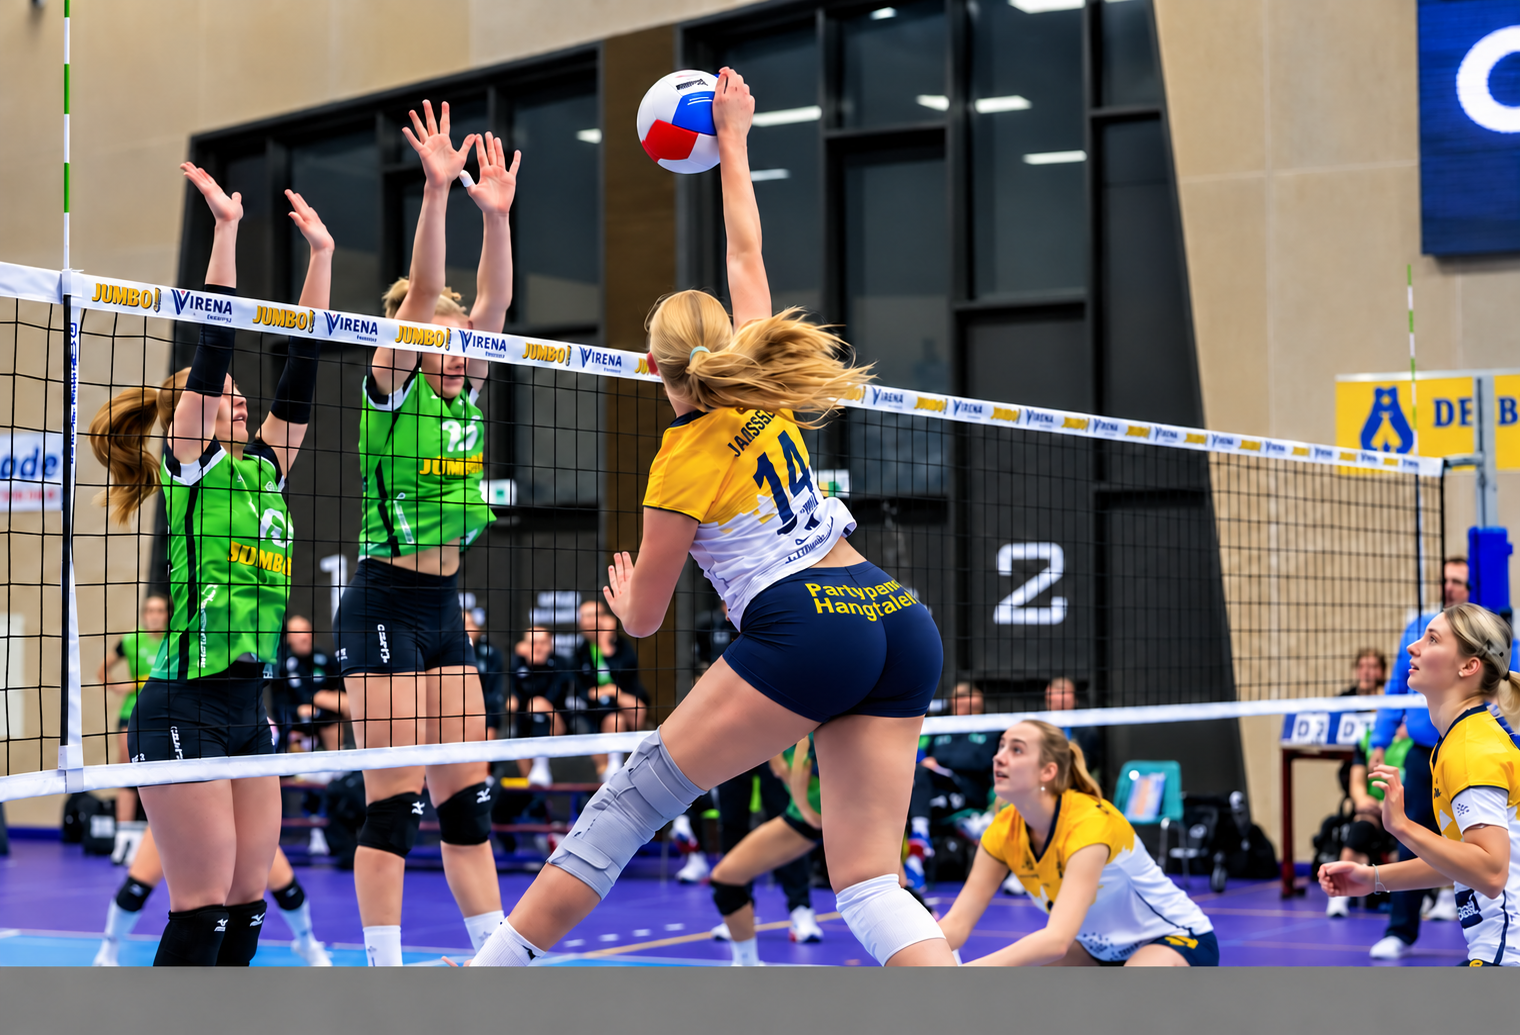
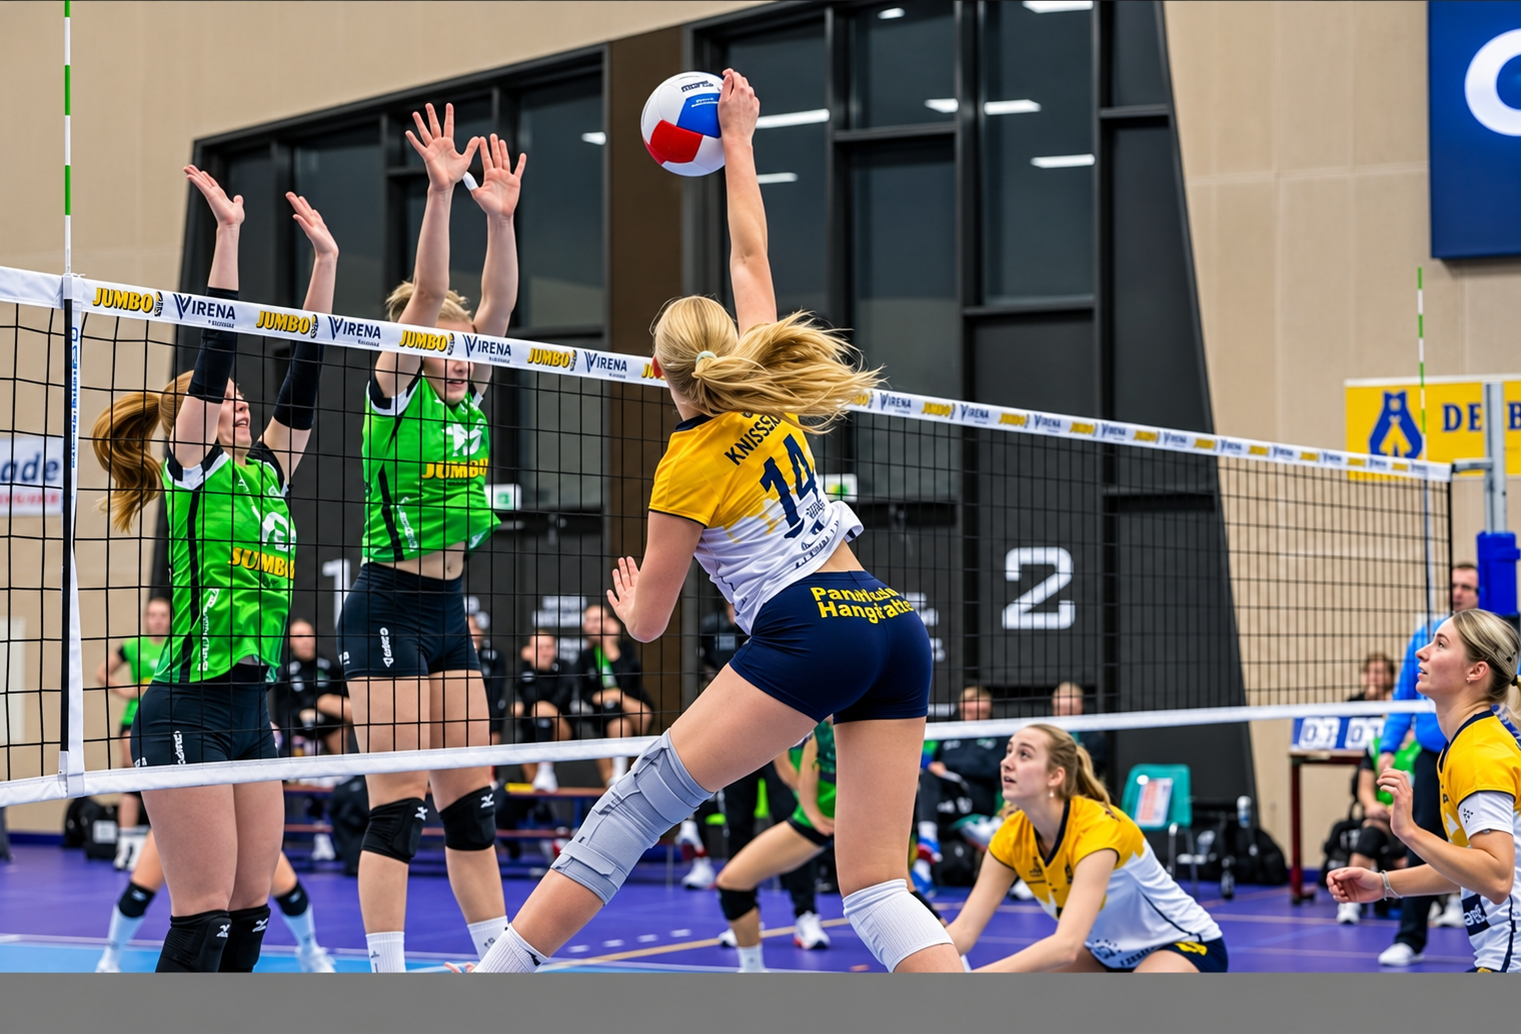
new

diff --git a/index.html b/index.html
@@ -216,7 +216,7 @@ BEWERKEN: titel, omschrijving, datum, tijd, locatie en poster.
 <!-- ============================================================
 SLIDE 3 — SPELER VAN DE MAAND
 BEWERKEN: naam, tekst en foto.
-============================================================ -->
+============================================================ 
 <section class="slide slide-player">
 <div class="player-copy">
 <div class="eyebrow">SPELER VAN DE MAAND</div>
@@ -225,7 +225,7 @@ BEWERKEN: naam, tekst en foto.
 <p class="player-bio">Gitte speelt in dames 3 en is de zus van Wessel. Oom Peter zit ook bij Peelpush, leuk hè!</p>
 </div>
 <img class="player-photo" src="images/speler-van-de-maand.png" alt="Speler van de maand">
-</section>
+</section> -->
 
 <!-- ============================================================
 SLIDE 4 — NEVOBO UITSLAGEN
